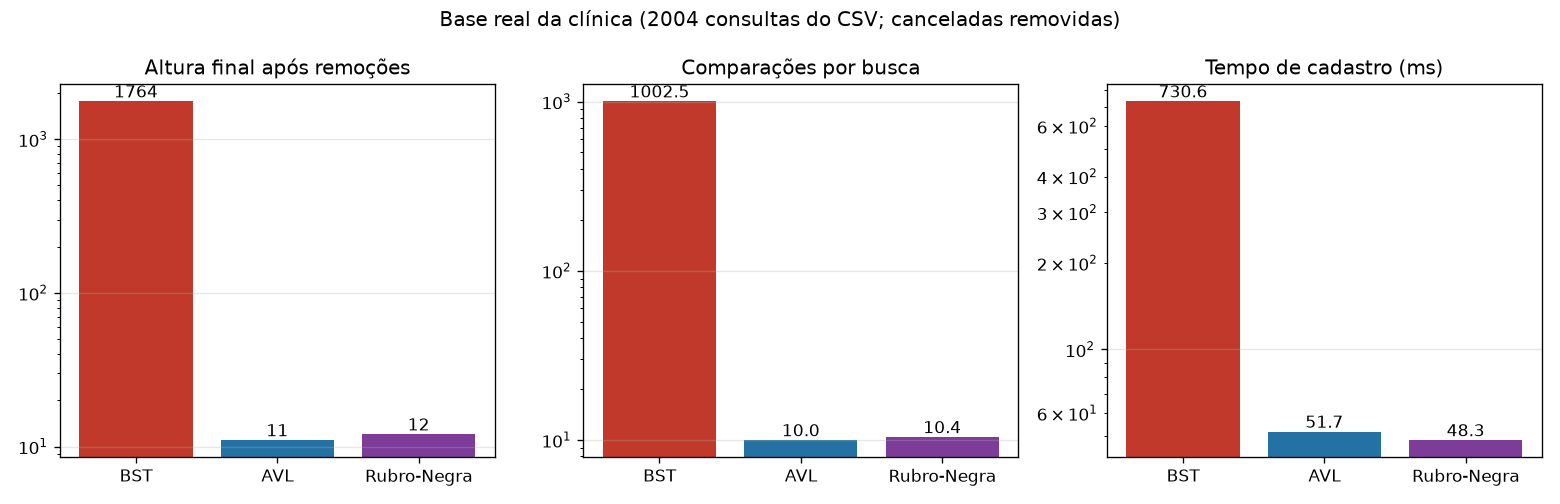
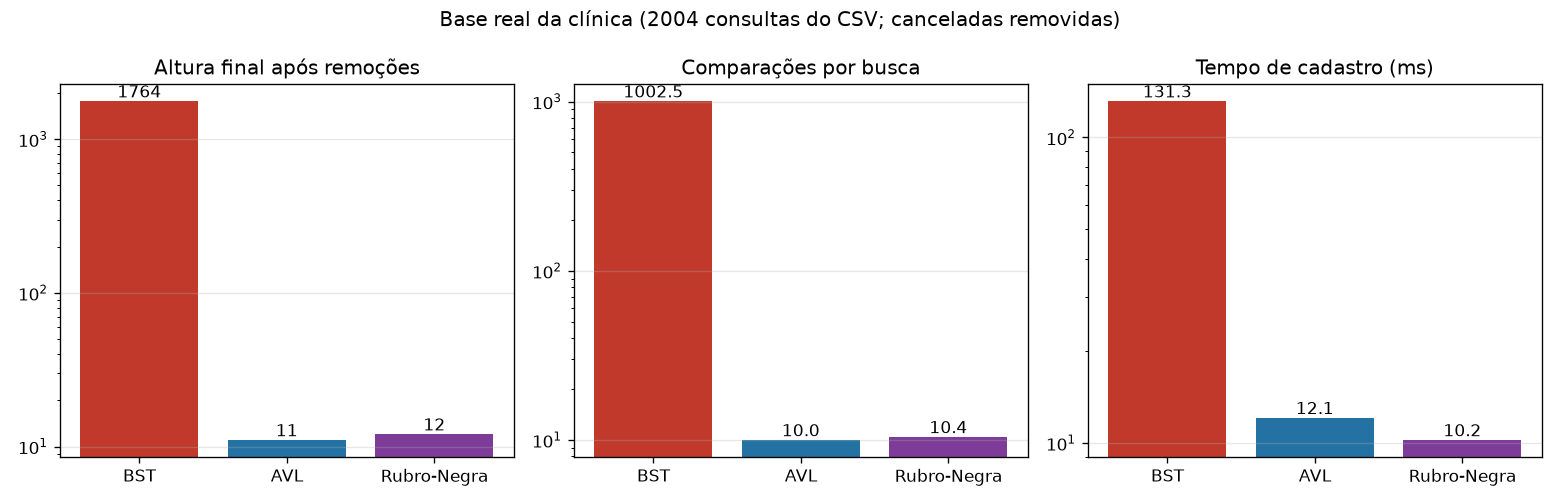
docs: completa resultados das tres arvores, recomendacao e resumo no readme

diff --git a/README.md b/README.md
@@ -2,6 +2,16 @@
 
 Comparação entre **BST**, **AVL** e **Árvore Rubro-Negra** aplicadas a um sistema de agendamento de consultas de uma clínica.
 
+**Resumo em uma tabela** (8.000 consultas cadastradas em ordem de data, como acontece numa agenda real):
+
+| | BST | AVL | Rubro-Negra |
+|---|---:|---:|---:|
+| Altura da árvore | 8.000 | 13 | 23 |
+| Comparações para achar uma consulta | 4.000,5 | 11,98 | 12,39 |
+| Tempo para cadastrar tudo | 1.583,9 ms | 68,8 ms | 64,8 ms |
+
+A BST vira uma lista e fica inviável. AVL e Rubro-Negra se reequilibram sozinhas e respondem em cerca de 12 passos. A AVL é a mais baixa (melhor para consultar horários); a Rubro-Negra faz o rebalanceamento com regras mais folgadas. Detalhes em [Resultados e análise experimental](#resultados-e-análise-experimental) e a escolha final em [Recomendação para o cliente](#recomendação-para-o-cliente).
+
 ## Cenário
 
 Toda clínica, consultório ou salão precisa de uma agenda: dado um dia e horário, saber se está livre, qual é a próxima consulta e o que há marcado na semana. Neste trabalho cada médico tem uma agenda indexada por **data e horário** (a chave da árvore), de modo que dois pacientes nunca ocupam o mesmo horário com o mesmo médico.
@@ -254,38 +264,108 @@ AVL: 7 consultas, altura 3, 4 rotações
 
 Os testes da agenda (em [`testes.py`](testes.py)) conferem as regras de negócio em todas as árvores: horário ocupado, outro médico no mesmo horário, fim de semana, horário fora da grade, remarcar, cancelar duas vezes e a agenda do dia e da semana da base real contra o CSV.
 
-## Benchmark, gráficos e análise experimental
+## Resultados e análise experimental
 
-O [`comparacao.py`](comparacao.py) compara as três árvores nos cenários cronológico, aleatório, cancelamento de metade das consultas e base real. Usa as mesmas chaves geradas com semente 42, valida a árvore ao fim de cada rodada e mede altura, comparações por busca, rotações, recolorações da Rubro-Negra e tempo. Cada tempo é a mediana de três execuções. Para reproduzir:
+O [`comparacao.py`](comparacao.py) compara as três árvores com as mesmas chaves (seed 42), valida cada árvore ao fim da rodada e mede altura, comparações por busca, rotações, recolorações (só a Rubro-Negra tem cor) e tempo. Cada tempo é a mediana de 3 execuções. Para reproduzir:
 
 ```bash
-python comparacao.py
-python plot_results.py
+python comparacao.py      # tamanhos 1.000, 2.000, 4.000 e 8.000 (~1 min)
+python plot_results.py    # gera os gráficos em assets/
 ```
 
-Os gráficos e os dados da execução ficam em [`assets/`](assets/). No cenário cronológico com 8.000 consultas, a BST degrada para altura 8.000 e a busca média usa 4.000,5 comparações. AVL e Rubro-Negra mantêm a altura abaixo de 24 e a busca perto de 12 comparações:
+Execução registrada em [`assets/ultimos_resultados.json`](assets/ultimos_resultados.json): Python 3.15, macOS arm64. **Tempos dependem da máquina; altura, comparações, rotações e recolorações não.** Quem rodar de novo obtém exatamente as mesmas contagens.
 
-| Árvore | Altura | Comparações por busca | Inserção (ms) | Rotações na inserção | Recolorações |
-|---|---:|---:|---:|---:|---:|
-| BST | 8.000 | 4.000,500 | 8.725,1 | 0 | — |
-| AVL | 13 | 11,978 | 252,1 | 7.987 | — |
-| Rubro-Negra | 23 | 12,395 | 246,1 | 7.977 | 39.882 |
+Cenários ([`src/cenarios.py`](src/cenarios.py)):
 
-Na entrada aleatória de 8.000 chaves, a BST ficou com altura 36 e foi mais rápida para inserir (53 ms), mas a AVL e a Rubro-Negra ficaram com altura 16 e cerca de 12,2 comparações por busca. Esse resultado mostra que a BST pode ser eficiente quando a ordem é favorável, mas não oferece o limite de altura garantido pelas árvores balanceadas.
+| Cenário | O que simula |
+|---|---|
+| `cronologico` | consultas cadastradas em ordem de data (o normal numa agenda) |
+| `aleatorio` | os mesmos horários em ordem embaralhada |
+| `cancelamentos` | cadastro em ordem de data e, depois, metade das consultas cancelada em ordem aleatória |
+| `base_real` | as 2.004 linhas de `dados/consultas_clinica.csv` numa árvore só (chave = data/hora + médico), na ordem do arquivo; depois as 240 canceladas são removidas |
 
-Ao cancelar 4.000 das 8.000 consultas cronológicas, a BST levou 3.228 ms e terminou com altura 4.000. AVL e Rubro-Negra levaram cerca de 69 ms e terminaram com altura 13 e 14, respectivamente. A remoção fez 652 rotações na AVL e 761 na Rubro-Negra; a Rubro-Negra também fez 9.698 recolorações durante os cancelamentos.
+### Cadastro em ordem de data (n = 8.000)
 
-Na base real, o CSV tem 2.004 linhas, das quais 1.764 estão agendadas. Inserindo todas as linhas e removendo as 240 canceladas, a altura final foi 1.764 na BST, 11 na AVL e 12 na Rubro-Negra. A execução completa foi medida no Python 3.14.7 em Windows AMD64; tempos mudam conforme a máquina, enquanto alturas, comparações, rotações e recolorações são reproduzíveis com a mesma semente.
+| | BST | AVL | Rubro-Negra |
+|---|---:|---:|---:|
+| Altura | 8.000 | 13 | 23 |
+| Comparações por busca | 4.000,5 | 11,98 | 12,39 |
+| Rotações | 0 | 7.987 | 7.977 |
+| Recolorações | — | — | 39.882 |
+| Tempo de inserção | 1.583,9 ms | 68,8 ms | 64,8 ms |
 
-**Recomendação para a clínica:** usar AVL quando a prioridade for ter a menor altura e o menor número de comparações em buscas. No caso cronológico com 8.000 consultas, ela ficou com altura 13 e 11,98 comparações médias, abaixo dos 23 níveis e 12,40 comparações da Rubro-Negra. A Rubro-Negra também é uma opção adequada: garante O(log n), teve tempo de inserção semelhante e exigiu dez rotações a menos nesse cenário. A BST só é recomendável se a entrada for pequena ou tiver ordem aleatória conhecida; o cadastro cronológico pode fazê-la degradar para O(n).
+![Altura final](assets/altura.png)
 
-![Altura nos cenários cronológico e aleatório](assets/altura.png)
+A BST vira uma lista: a altura é igual ao número de consultas e cada busca percorre, em média, metade da agenda (4.000,5 comparações). As duas árvores balanceadas resolvem o problema: a AVL fica com altura 13, praticamente o mínimo possível (log2 8.000 = 12,97), e a Rubro-Negra com 23, dentro do limite dela (2 · log2 8.001 ≈ 25,9). Na busca a diferença entre as duas é pequena: 11,98 contra 12,39 comparações.
 
-![Comparações médias por busca](assets/comparacoes_busca.png)
+As duas fazem quase uma rotação por consulta cadastrada (7.987 e 7.977), porque cada data nova pende a árvore para a direita. A Rubro-Negra ainda faz 39.882 recolorações, cerca de 5 por consulta. Mesmo pagando esse trabalho, AVL e Rubro-Negra cadastram as 8.000 consultas 23 a 24 vezes mais rápido que a BST.
 
-![Tempo e rotações dos cancelamentos](assets/remocao.png)
+![Comparações por busca](assets/comparacoes_busca.png)
+
+### Cadastro em ordem aleatória (n = 8.000)
+
+| | BST | AVL | Rubro-Negra |
+|---|---:|---:|---:|
+| Altura | 36 | 16 | 16 |
+| Comparações por busca | 16,55 | 12,23 | 12,28 |
+| Rotações | 0 | 5.436 | 4.598 |
+| Recolorações | — | — | 18.388 |
+| Tempo de inserção | 9,8 ms | 56,7 ms | 38,4 ms |
+
+![Tempo de inserção](assets/tempo_insercao.png)
+
+Com dados embaralhados a BST fica razoavelmente baixa (altura 36) sem fazer nada e é a mais rápida para cadastrar, porque não recalcula alturas, não rotaciona e não recolore. AVL e Rubro-Negra ficam com a mesma altura (16) e fazem menos comparações por busca (cerca de 12,2 contra 16,5). Aqui a Rubro-Negra rotaciona menos que a AVL (4.598 contra 5.436) e cadastra mais rápido. Conclusão: **a BST só é boa quando a ordem de chegada das chaves é aleatória, e numa agenda ela não é.**
+
+![Rotações](assets/rotacoes.png)
+
+### Cancelamentos (remover 4.000 de 8.000)
+
+| | BST | AVL | Rubro-Negra |
+|---|---:|---:|---:|
+| Tempo de remoção | 621,5 ms | 17,3 ms | 16,6 ms |
+| Rotações na remoção | 0 | 652 | 761 |
+| Recolorações na remoção | — | — | 9.698 |
+| Altura depois | 4.000 | 13 | 14 |
+
+![Remoção](assets/remocao.png)
+
+Cancelar consultas não conserta a BST: ela continua sendo uma lista, agora com 4.000 nós, e cada cancelamento custa uma busca linear. Nas árvores balanceadas a remoção é rápida e a altura quase não muda (13 na AVL, 14 na Rubro-Negra). Neste cenário a Rubro-Negra fez **mais** rotações que a AVL (761 contra 652) e ainda 9.698 recolorações, e mesmo assim os tempos das duas ficaram praticamente iguais.
 
 ![Recolorações da Rubro-Negra](assets/recoloracoes.png)
+
+### Base real da clínica (2.004 consultas do CSV)
+
+| | BST | AVL | Rubro-Negra |
+|---|---:|---:|---:|
+| Altura | 2.004 | 11 | 19 |
+| Comparações por busca | 1.002,5 | 9,98 | 10,41 |
+| Tempo de inserção | 131,3 ms | 12,1 ms | 10,2 ms |
+| Remoção das 240 canceladas | 14,1 ms | 0,8 ms | 0,8 ms |
+| Altura depois da remoção | 1.764 | 11 | 12 |
+
+![Base real](assets/base_real.png)
+
+Aqui todas as linhas do CSV vão para uma árvore só (por isso as alturas diferem das da [demonstração](#demonstração-python-mainpy), que monta uma árvore por médico só com as consultas agendadas). A base real confirma o cenário cronológico: como o arquivo está em ordem de data, a BST degenera por completo, enquanto a AVL e a Rubro-Negra respondem "esse horário está livre?" com cerca de 10 comparações em vez de 1.000.
+
+### AVL x Rubro-Negra
+
+| | AVL | Rubro-Negra |
+|---|---|---|
+| Regra | diferença de altura entre os filhos de no máximo 1 | cores: sem dois vermelhos seguidos e mesma quantidade de pretos em todo caminho |
+| Altura máxima | cerca de 1,44 · log2 n | 2 · log2(n + 1) |
+| Altura medida (8.000 em ordem) | 13 | 23 |
+| Comparações por busca | 11,98 | 12,39 |
+| Trabalho para rebalancear | rotações + recálculo de altura em todo o caminho | rotações (no máximo 2 por inserção e 3 por remoção) + recolorações |
+
+A AVL é mais rígida, por isso fica mais baixa e é a melhor para leitura. A Rubro-Negra aceita uma árvore mais alta em troca de corrigir menos a cada escrita. Nos nossos dados: no cadastro em ordem as duas rotacionaram praticamente igual (7.987 contra 7.977) e tiveram tempos próximos; no cadastro aleatório a Rubro-Negra fez 15% menos rotações (4.598 contra 5.436) e foi cerca de 32% mais rápida (38,4 contra 56,7 ms); nos cancelamentos a AVL rotacionou menos (652 contra 761), com tempos quase iguais.
+
+## Recomendação para o cliente
+
+Para a agenda da clínica, **não usar a BST simples**: as consultas são cadastradas em ordem de data, que é exatamente o pior caso dela. Com alguns meses de agenda, cada consulta ao sistema passaria a percorrer milhares de registros.
+
+A recomendação é a **AVL**. Uma agenda é consultada muito mais do que alterada: recepção e pacientes perguntam por horários livres o dia todo, enquanto cadastros e cancelamentos são bem menos frequentes. A AVL mantém a menor altura (13 contra 23 com 8.000 consultas) e o menor número de comparações por busca, o que deixa sempre rápidas a busca, a próxima consulta e a agenda da semana.
+
+A **Rubro-Negra** também é uma boa escolha e seria a preferida num sistema em que a escrita domina (muitos cadastros, cancelamentos e remarcações ao mesmo tempo): ela garante O(log n), cadastrou um pouco mais rápido nos nossos testes e é a estrutura usada nas bibliotecas de muitas linguagens (por exemplo, o `TreeMap` do Java e as implementações mais comuns do `std::map` do C++). Para o volume de uma clínica, as duas atendem bem; a AVL leva vantagem por ser a mais rápida exatamente na operação mais usada.
 
 ## Status do projeto
 
@@ -297,7 +377,7 @@ Na base real, o CSV tem 2.004 linhas, das quais 1.764 estão agendadas. Inserind
 - [x] Implementar a Rubro-Negra
 - [x] Agenda da clínica e demonstração passo a passo
 - [x] Testes de corretude nas três árvores
-- [x] Benchmark, gráficos e análise experimental
+- [x] Resultados (benchmark, gráficos e análise experimental)
 - [x] Recomendação para o cliente
 - [ ] Vídeo de apresentação
 
